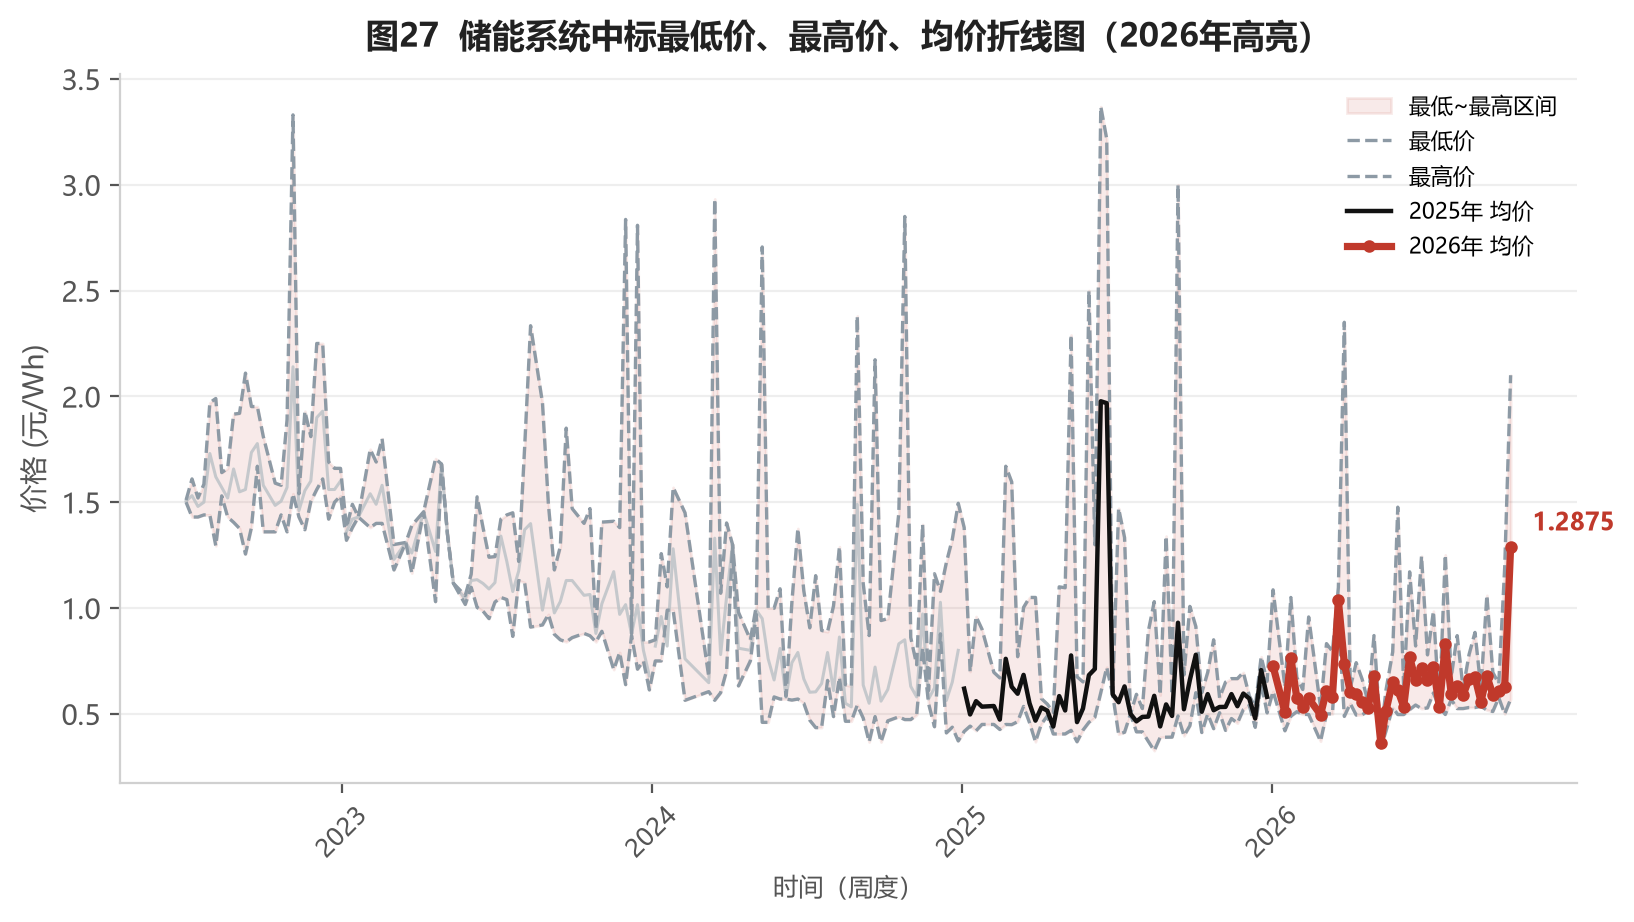
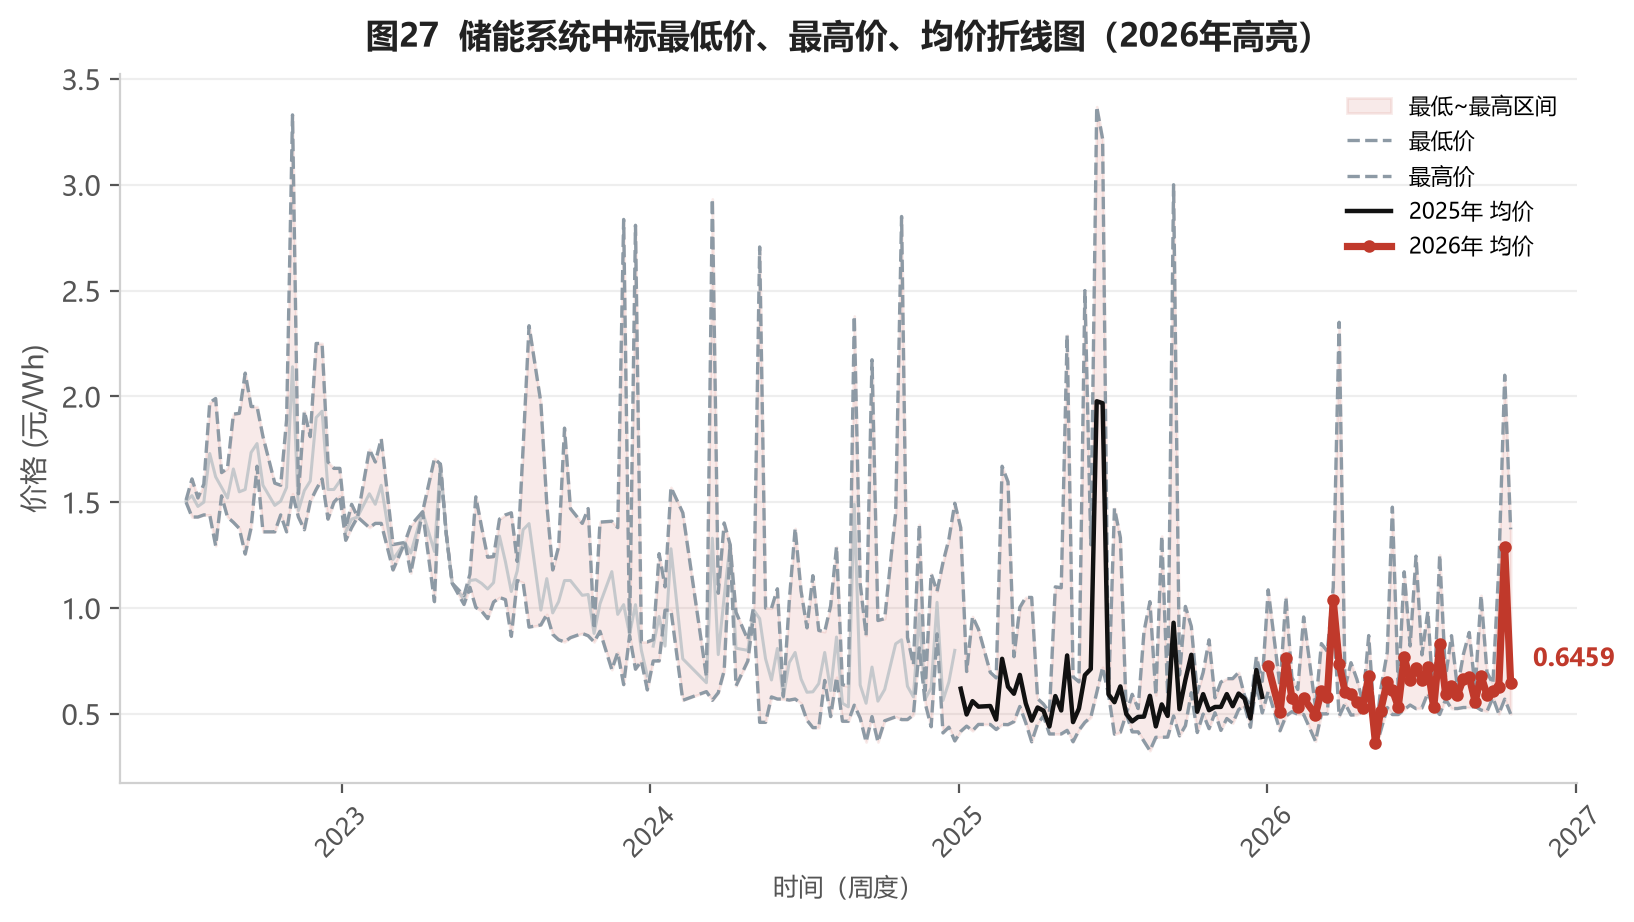
update weekly report 2026-10-18

diff --git a/docs/index.html b/docs/index.html
@@ -3,7 +3,7 @@
 <head>
 <meta charset="UTF-8" />
 <meta name="viewport" content="width=device-width, initial-scale=1.0" />
-<title>储能行业周报 · 储能招中标板块（2026-10-09）</title>
+<title>储能行业周报 · 储能招中标板块（2026-10-16）</title>
 <meta name="description" content="储能行业周度招中标数据报告：周度规模、累计规模、EPC/系统分项、中标价格走势。" />
 <style>
 :root {
@@ -52,13 +52,13 @@ footer{text-align:center;color:var(--muted);font-size:12px;padding:26px 0;
 <header class="hero">
   <div class="container">
     <h1>储能行业周报 · 储能招中标板块</h1>
-    <div class="meta">数据周期：2022-07-01 ~ 2026-10-09 · 本周：2026-10-03 至 2026-10-09（2026年第40周）· 共 214 周数据 · 生成于 2026-10-11 18:11:04</div>
+    <div class="meta">数据周期：2022-07-01 ~ 2026-10-16 · 本周：2026-10-10 至 2026-10-16（2026年第41周）· 共 215 周数据 · 生成于 2026-10-18 21:47:13</div>
   </div>
 </header>
 <div class="container">
     <section class="sec">
       <h2>一、中国|储能周度招中标</h2>
-      <div class="desc"><p class="d">本周：2026-10-03 至 2026-10-09</p><p class="d">招标项目 <b>16</b> 个，规模合计 <b>1.92</b>GW/<b>5.56</b>GWh，环比 <span class="chg down">-77.0%</span>/<span class="chg down">-77.7%</span>，同比 <span class="chg up">+171.6%</span>/<span class="chg up">+421.1%</span>。</p><p class="d">中标项目 <b>25</b> 个，规模合计 <b>3.01</b>GW/<b>8.32</b>GWh，环比 <span class="chg down">-61.3%</span>/<span class="chg down">-72.3%</span>，同比 <span class="chg up">+1.7%</span>/<span class="chg down">-21.0%</span>。</p></div>
+      <div class="desc"><p class="d">本周：2026-10-10 至 2026-10-16</p><p class="d">招标项目 <b>22</b> 个，规模合计 <b>2.66</b>GW/<b>19.24</b>GWh，环比 <span class="chg up">+38.4%</span>/<span class="chg up">+246.2%</span>，同比 <span class="chg up">+62.2%</span>/<span class="chg up">+225.8%</span>。</p><p class="d">中标项目 <b>52</b> 个，规模合计 <b>8.71</b>GW/<b>31.15</b>GWh，环比 <span class="chg up">+189.0%</span>/<span class="chg up">+274.3%</span>，同比 <span class="chg up">+103.9%</span>/<span class="chg up">+117.2%</span>。</p></div>
       <div class="charts">
       <figure class="fig"><img src="assets/images/fig_01.png" alt="图1：储能合计招标功率当周值季节图" loading="lazy" /></figure>
       <figure class="fig"><img src="assets/images/fig_02.png" alt="图2：储能合计中标功率当周值季节图" loading="lazy" /></figure>
@@ -69,7 +69,7 @@ footer{text-align:center;color:var(--muted);font-size:12px;padding:26px 0;
 
     <section class="sec">
       <h2>二、中国|储能周度招中标（累计）</h2>
-      <div class="desc"><p class="d">截至 2026-10-09</p><p class="d">招标累计规模 <b>164.85</b>GW/<b>568.27</b>GWh，环比 <span class="chg up">+1.2%</span>/<span class="chg up">+1.0%</span>，同比 <span class="chg up">+106.9%</span>/<span class="chg up">+128.4%</span>。</p><p class="d">中标累计规模 <b>182.83</b>GW/<b>691.83</b>GWh，环比 <span class="chg up">+1.7%</span>/<span class="chg up">+1.2%</span>，同比 <span class="chg up">+46.7%</span>/<span class="chg up">+53.0%</span>。</p></div>
+      <div class="desc"><p class="d">截至 2026-10-16</p><p class="d">招标累计规模 <b>167.52</b>GW/<b>587.51</b>GWh，环比 <span class="chg up">+1.6%</span>/<span class="chg up">+3.4%</span>，同比 <span class="chg up">+106.0%</span>/<span class="chg up">+130.7%</span>。</p><p class="d">中标累计规模 <b>191.54</b>GW/<b>722.98</b>GWh，环比 <span class="chg up">+4.8%</span>/<span class="chg up">+4.5%</span>，同比 <span class="chg up">+48.6%</span>/<span class="chg up">+54.9%</span>。</p></div>
       <div class="charts">
       <figure class="fig"><img src="assets/images/fig_05.png" alt="图5：储能合计招标功率YTD值季节图" loading="lazy" /></figure>
       <figure class="fig"><img src="assets/images/fig_06.png" alt="图6：储能合计中标功率YTD值季节图" loading="lazy" /></figure>
@@ -80,7 +80,7 @@ footer{text-align:center;color:var(--muted);font-size:12px;padding:26px 0;
 
     <section class="sec">
       <h2>三、储能EPC招中标规模（周度）</h2>
-      <div class="desc"><p class="d">本周：2026-10-03 至 2026-10-09</p><p class="d">储能EPC<b>招标</b>：<b>1.62</b>GW/<b>4.61</b>GWh，环比 <span class="chg down">-79.6%</span>/<span class="chg down">-80.5%</span>，同比 <span class="chg up">+128.4%</span>/<span class="chg up">+332.2%</span>；本年累计<b>招标</b> <b>136.72</b>GW/<b>401.44</b>GWh，同比 <span class="chg up">+115.8%</span>/<span class="chg up">+122.9%</span>。</p><p class="d">储能EPC<b>中标</b>：<b>2.67</b>GW/<b>7.09</b>GWh，环比 <span class="chg down">-61.3%</span>/<span class="chg down">-64.4%</span>，同比 <span class="chg up">+34.6%</span>/<span class="chg up">+32.1%</span>；本年累计<b>中标</b> <b>151.37</b>GW/<b>443.37</b>GWh，同比 <span class="chg up">+89.0%</span>/<span class="chg up">+94.6%</span>。</p></div>
+      <div class="desc"><p class="d">本周：2026-10-10 至 2026-10-16</p><p class="d">储能EPC<b>招标</b>：<b>2.66</b>GW/<b>9.24</b>GWh，环比 <span class="chg up">+64.4%</span>/<span class="chg up">+100.4%</span>，同比 <span class="chg up">+74.0%</span>/<span class="chg up">+115.6%</span>；本年累计<b>招标</b> <b>139.38</b>GW/<b>410.68</b>GWh，同比 <span class="chg up">+114.8%</span>/<span class="chg up">+122.7%</span>。</p><p class="d">储能EPC<b>中标</b>：<b>8.37</b>GW/<b>27.28</b>GWh，环比 <span class="chg up">+213.2%</span>/<span class="chg up">+284.8%</span>，同比 <span class="chg up">+228.9%</span>/<span class="chg up">+284.9%</span>；本年累计<b>中标</b> <b>159.73</b>GW/<b>470.65</b>GWh，同比 <span class="chg up">+93.3%</span>/<span class="chg up">+100.3%</span>。</p></div>
       <div class="charts cols4">
       <figure class="fig"><img src="assets/images/fig_09.png" alt="图9：储能EPC招标功率当周值季节图" loading="lazy" /></figure>
       <figure class="fig"><img src="assets/images/fig_10.png" alt="图10：储能EPC招标功率YTD值季节图" loading="lazy" /></figure>
@@ -95,7 +95,7 @@ footer{text-align:center;color:var(--muted);font-size:12px;padding:26px 0;
 
     <section class="sec">
       <h2>四、储能系统招中标规模（周度）</h2>
-      <div class="desc"><p class="d">本周：2026-10-03 至 2026-10-09</p><p class="d">储能系统<b>招标</b>：<b>0.31</b>GW/<b>0.95</b>GWh，环比 <span class="chg down">-30.5%</span>/<span class="chg down">-25.9%</span>，同比 <span class="chg na">—</span>/<span class="chg na">—</span>；本年累计<b>招标</b> <b>24.93</b>GW/<b>133.80</b>GWh，同比 <span class="chg up">+49.7%</span>/<span class="chg up">+94.8%</span>。</p><p class="d">储能系统<b>中标</b>：<b>0.34</b>GW/<b>1.23</b>GWh，环比 <span class="chg down">-61.5%</span>/<span class="chg down">-87.8%</span>，同比 <span class="chg down">-65.1%</span>/<span class="chg down">-76.1%</span>；本年累计<b>中标</b> <b>28.72</b>GW/<b>203.34</b>GWh，同比 <span class="chg down">-35.7%</span>/<span class="chg down">-16.5%</span>。</p></div>
+      <div class="desc"><p class="d">本周：2026-10-10 至 2026-10-16</p><p class="d">储能系统<b>招标</b>：<b>0.00</b>GW/<b>10.00</b>GWh，环比 <span class="chg down">-99.2%</span>/<span class="chg up">+955.5%</span>，同比 <span class="chg down">-98.0%</span>/<span class="chg up">+517.4%</span>；本年累计<b>招标</b> <b>24.93</b>GW/<b>143.80</b>GWh，同比 <span class="chg up">+48.7%</span>/<span class="chg up">+104.6%</span>。</p><p class="d">储能系统<b>中标</b>：<b>0.34</b>GW/<b>3.87</b>GWh，环比 <span class="chg up">+0.1%</span>/<span class="chg up">+214.2%</span>，同比 <span class="chg down">-80.2%</span>/<span class="chg down">-46.7%</span>；本年累计<b>中标</b> <b>29.07</b>GW/<b>207.20</b>GWh，同比 <span class="chg down">-37.4%</span>/<span class="chg down">-17.4%</span>。</p></div>
       <div class="charts cols4">
       <figure class="fig"><img src="assets/images/fig_17.png" alt="图17：储能系统招标功率当周值季节图" loading="lazy" /></figure>
       <figure class="fig"><img src="assets/images/fig_18.png" alt="图18：储能系统招标功率YTD值季节图" loading="lazy" /></figure>
@@ -110,7 +110,7 @@ footer{text-align:center;color:var(--muted);font-size:12px;padding:26px 0;
 
     <section class="sec">
       <h2>五、储能价格（周度）</h2>
-      <div class="desc"><p class="d">本周：2026-10-03 至 2026-10-09</p><p class="d">储能EPC中标报价区间：【<b>0.6680</b>-<b>1.2164</b>】元/Wh，储能EPC中标均价 <b>0.9431</b> 元/Wh（环比 <span class="chg up">+0.6%</span>，同比 <span class="chg down">-1.7%</span>）。</p><p class="d">储能系统中标报价区间：【<b>0.5695</b>-<b>2.1000</b>】元/Wh，储能系统中标均价 <b>1.2875</b> 元/Wh（环比 <span class="chg up">+104.7%</span>，同比 <span class="chg up">+152.5%</span>）。</p></div>
+      <div class="desc"><p class="d">本周：2026-10-10 至 2026-10-16</p><p class="d">储能EPC中标报价区间：【<b>0.6308</b>-<b>1.2496</b>】元/Wh，储能EPC中标均价 <b>0.9724</b> 元/Wh（环比 <span class="chg up">+3.1%</span>，同比 <span class="chg up">+16.9%</span>）。</p><p class="d">储能系统中标报价区间：【<b>0.4995</b>-<b>1.3720</b>】元/Wh，储能系统中标均价 <b>0.6459</b> 元/Wh（环比 <span class="chg down">-49.8%</span>，同比 <span class="chg up">+8.9%</span>）。</p></div>
       <div class="charts">
       <figure class="fig"><img src="assets/images/fig_25.png" alt="图25：储能系统中标均价季节图" loading="lazy" /></figure>
       <figure class="fig"><img src="assets/images/fig_26.png" alt="图26：储能EPC中标均价季节图" loading="lazy" /></figure>
